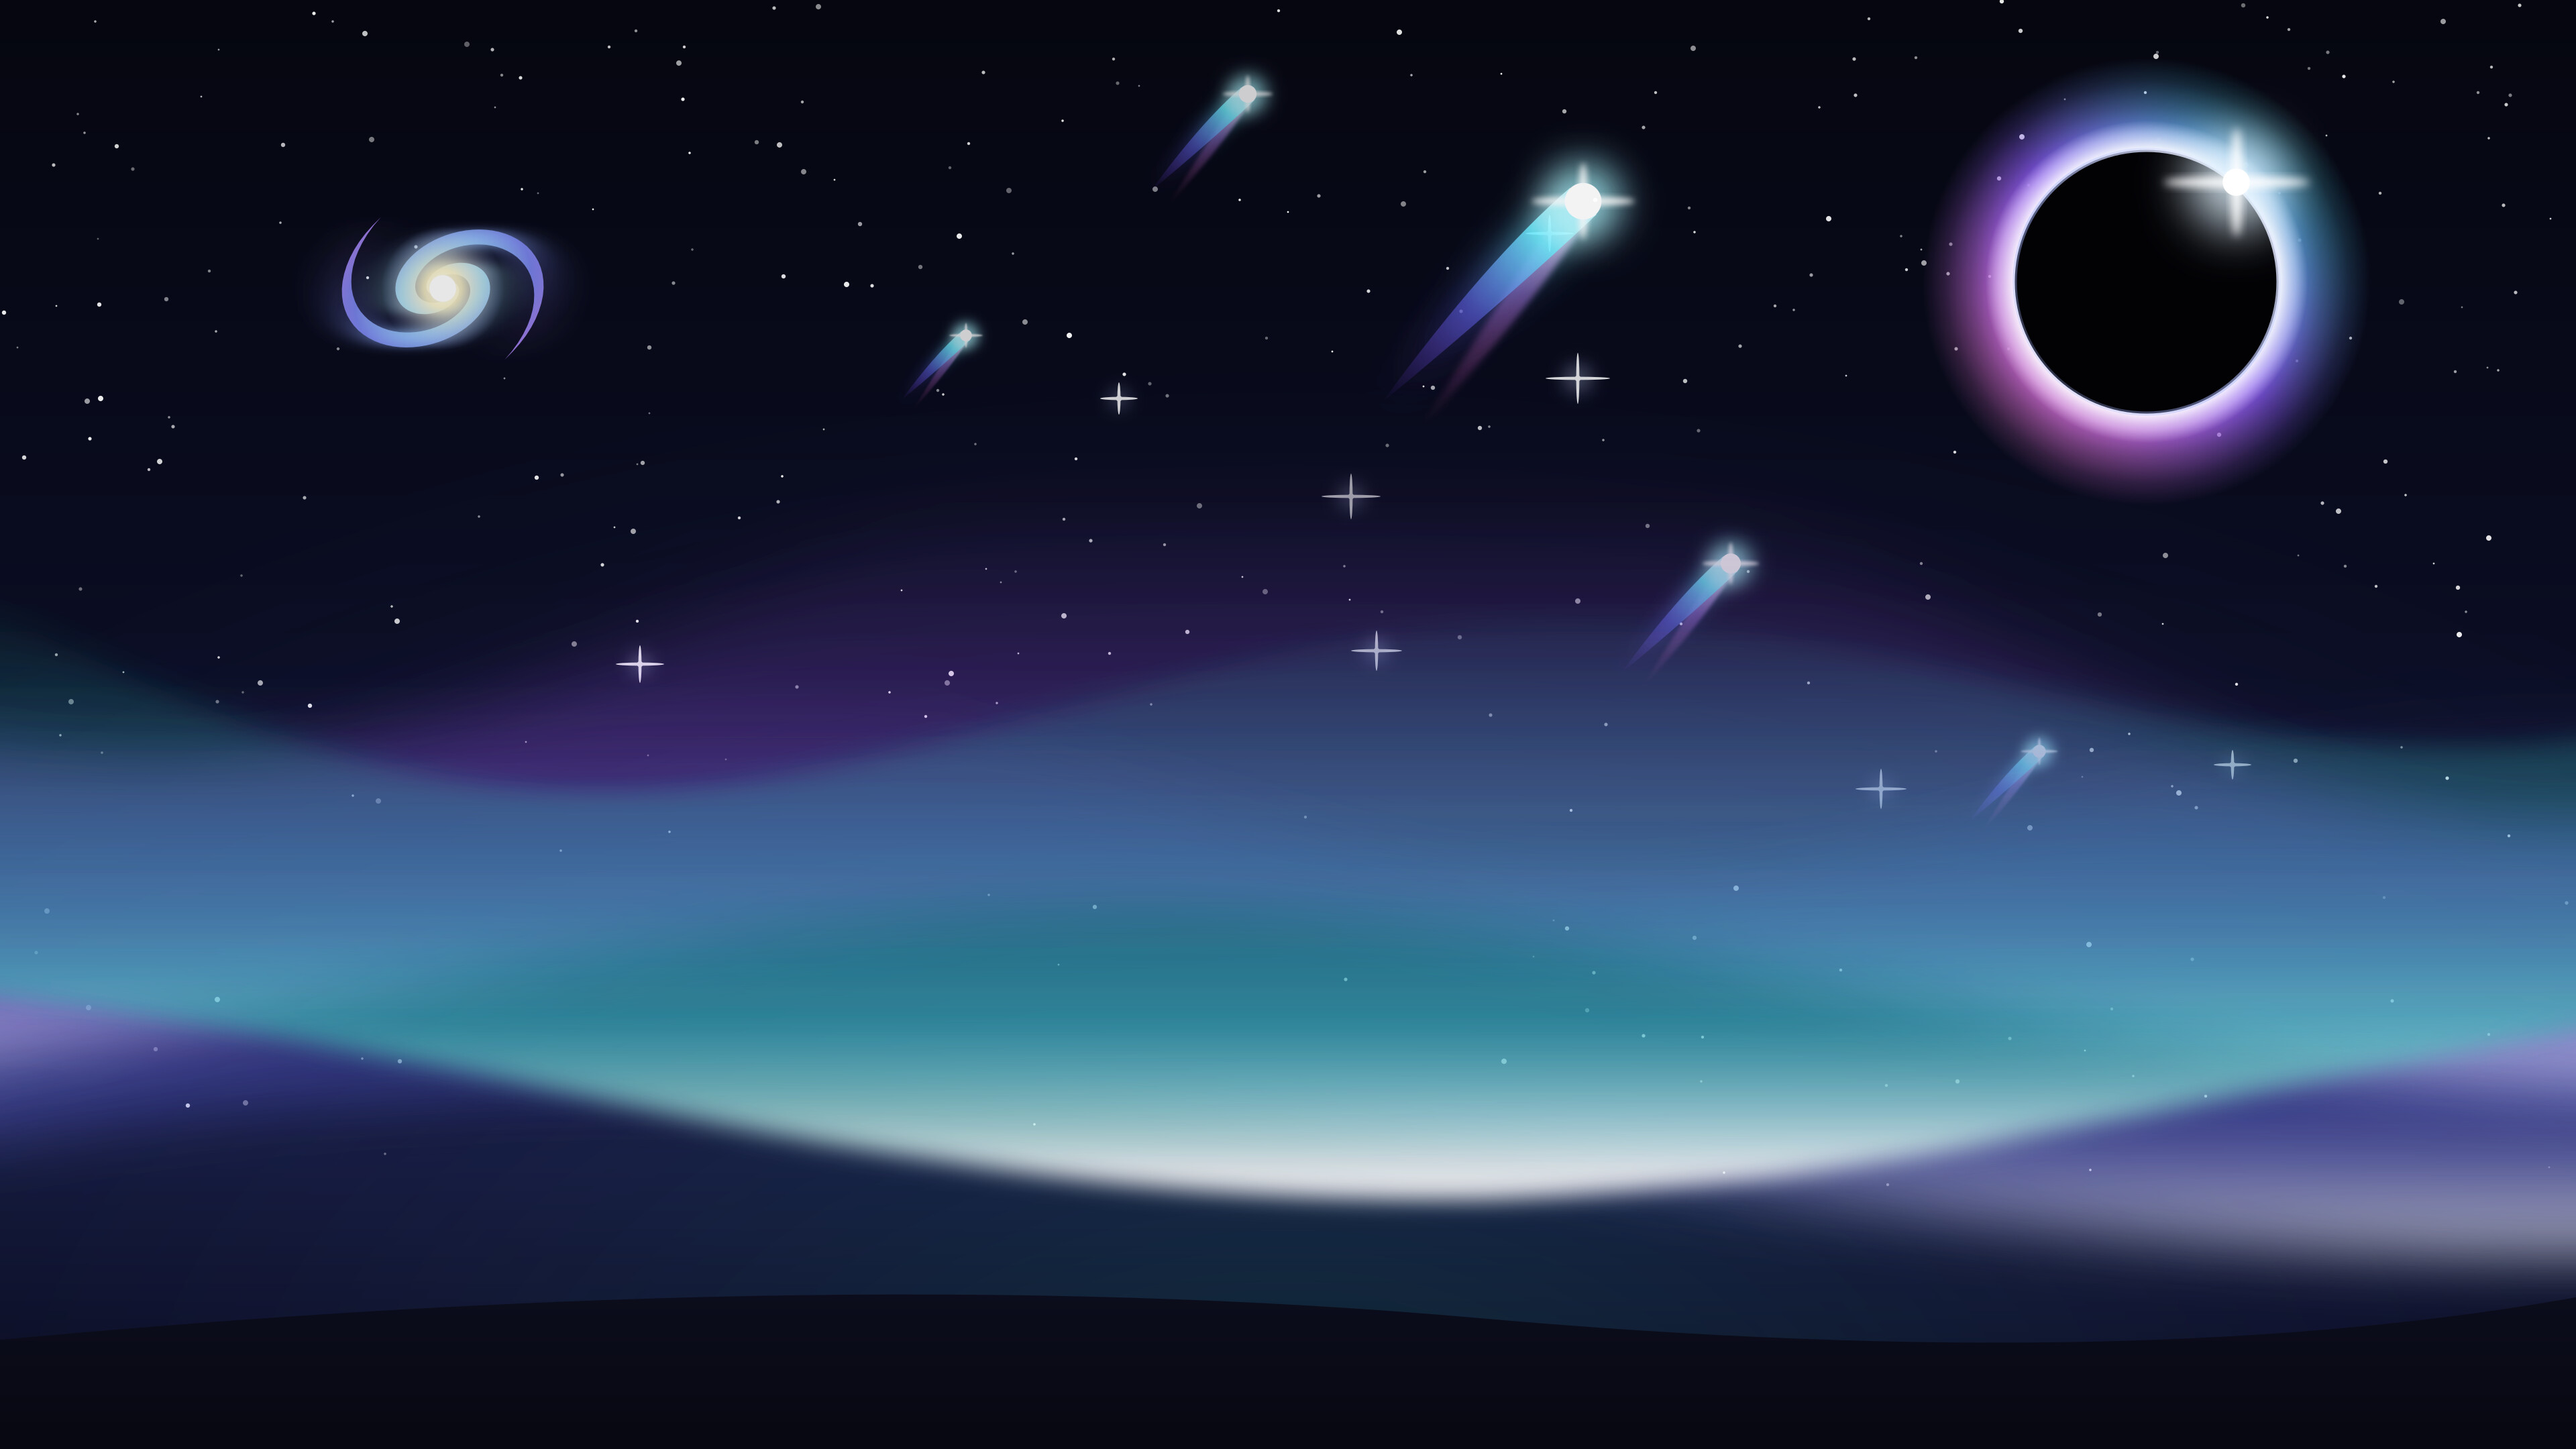
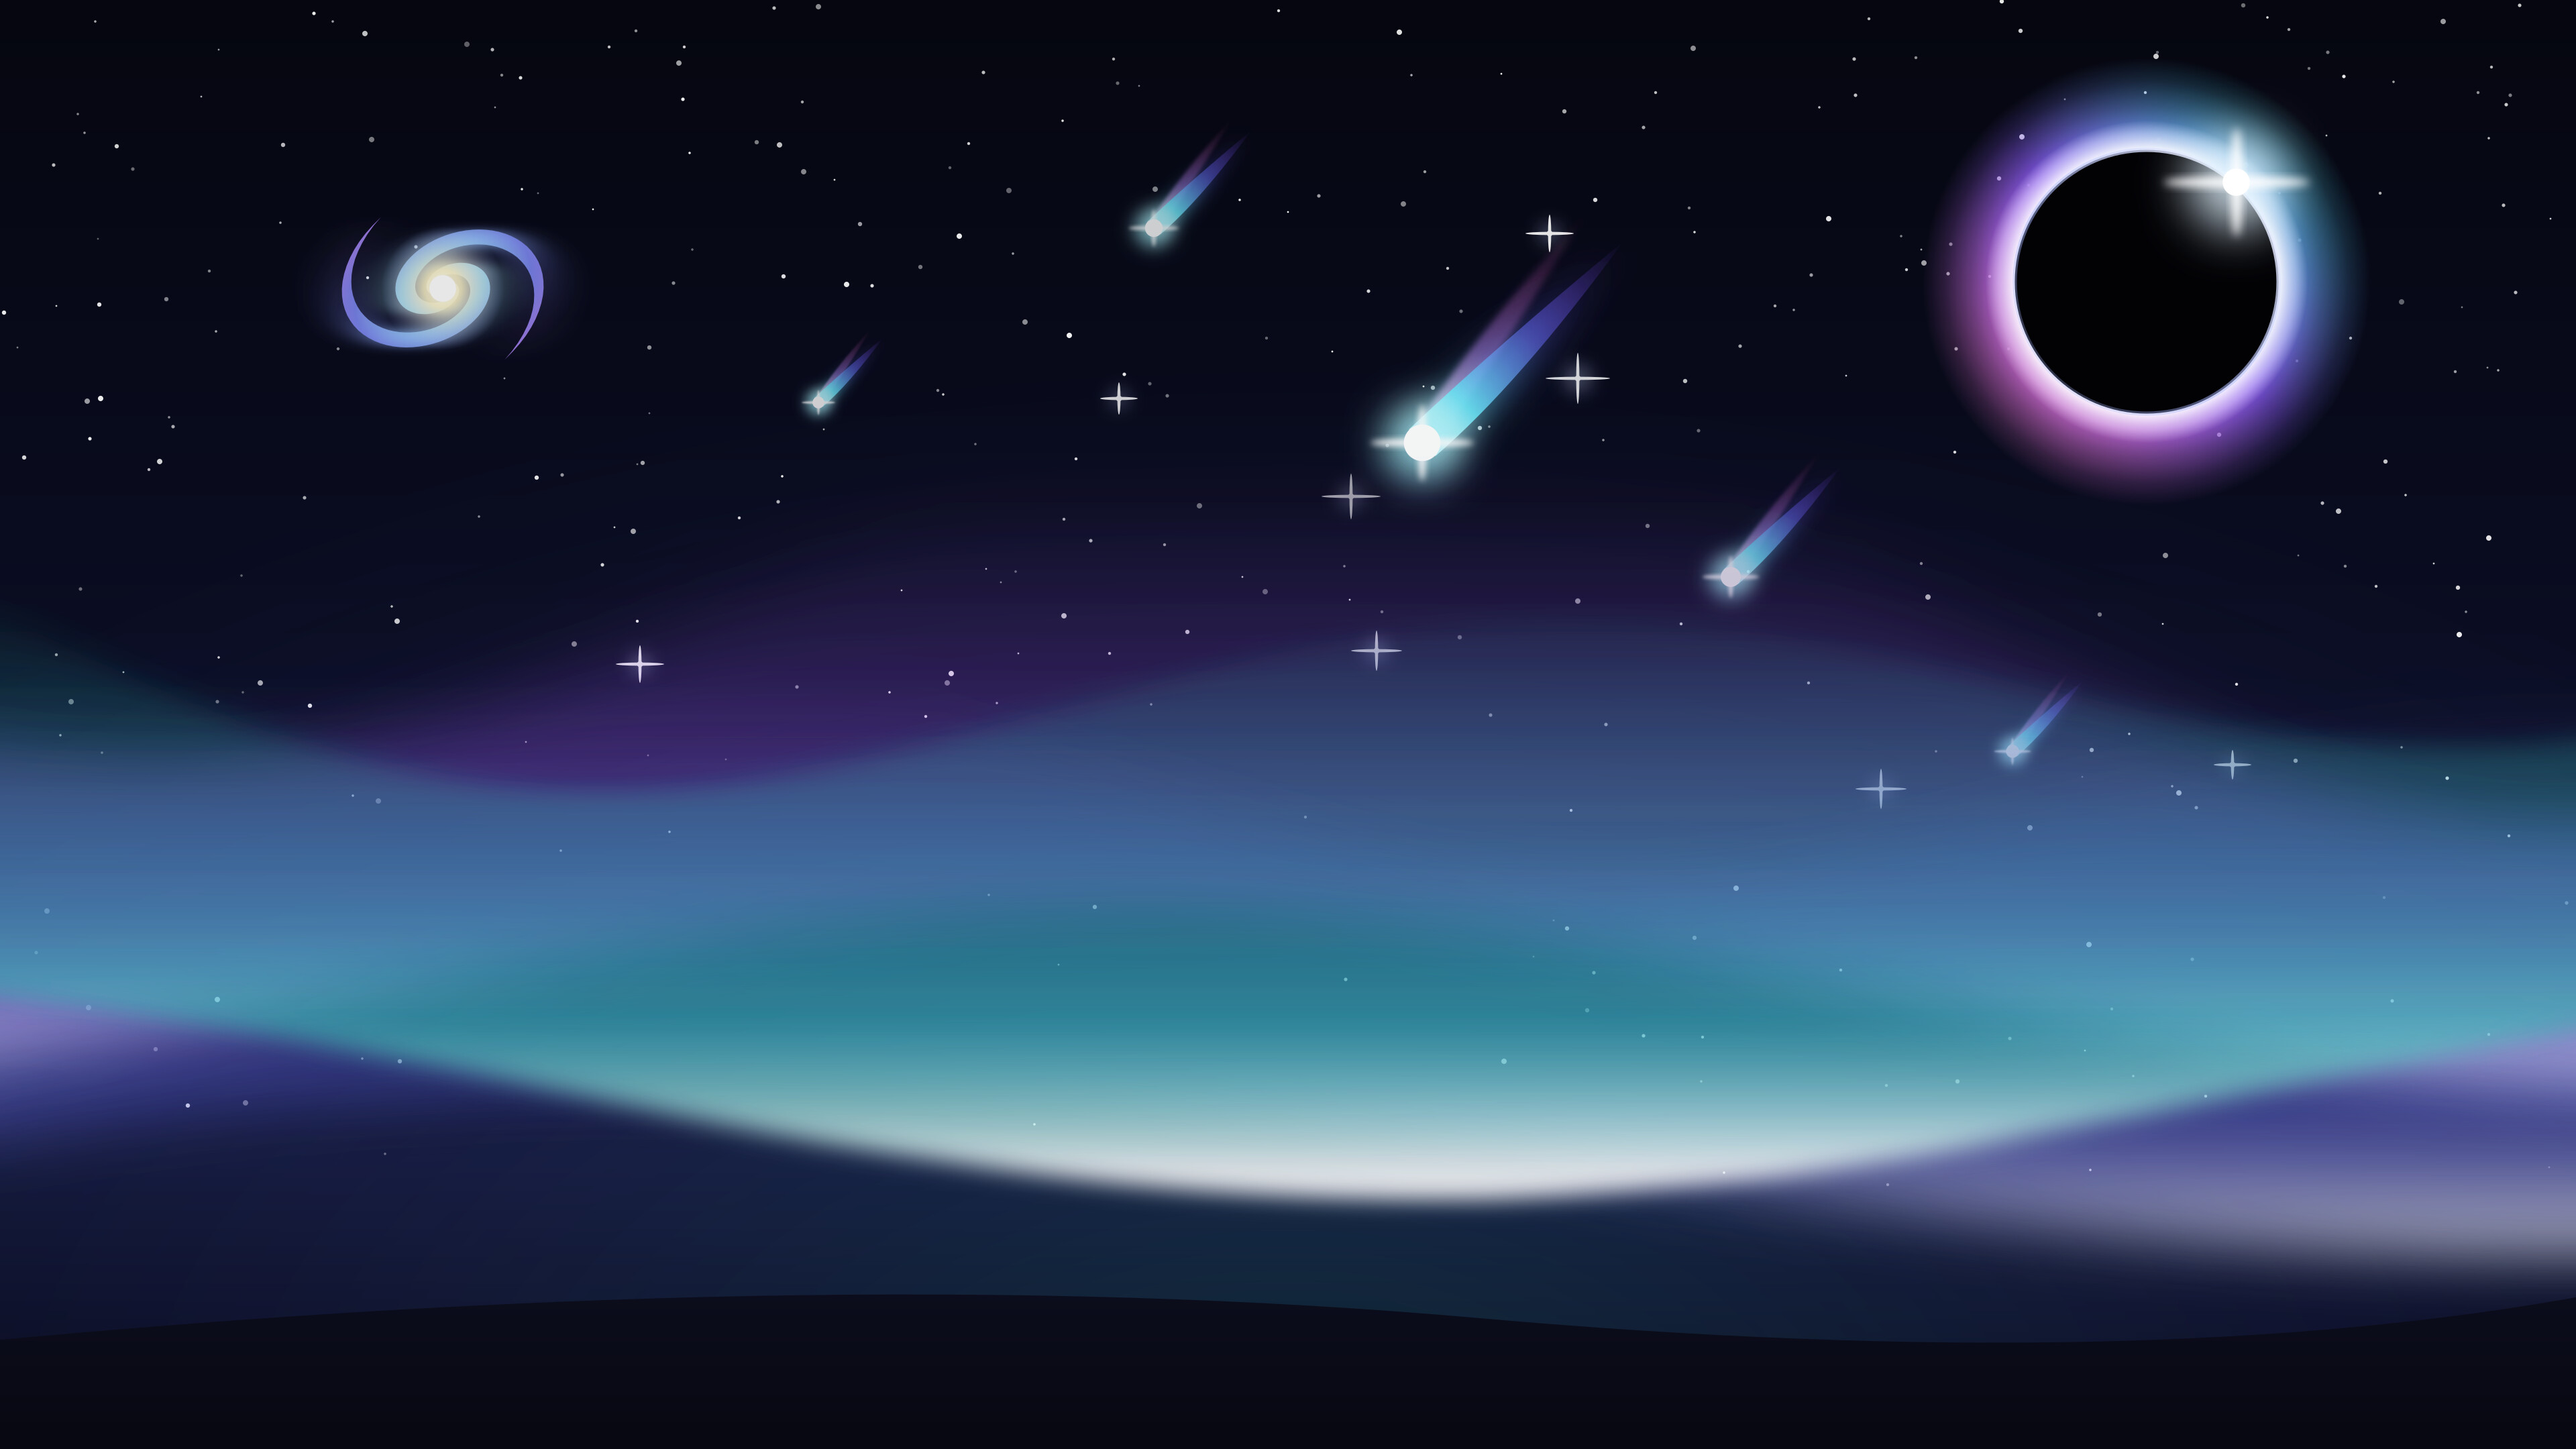
Comets that fall, and a calm sky as a second Astrelle wallpaper
The comets in Astrelle's wallpaper climbed, as the icon's does; now each is turned round,
falling down to the left head first, tail behind. Its calm sky, the same without the comets and
the galaxy (wallpaper.py --without=comets,galaxy), is a second built-in choice in Astrelle
Settings ("astrelle-calm"), named in all 11 languages.

diff --git a/tests/wallpaper-astrelle-default.test.js b/tests/wallpaper-astrelle-default.test.js
@@ -1,7 +1,7 @@
 // timeout: 60
 // Frosted Glass on a wallpaper: by default it's Astrelle's own (its icons as one night sky), on the
 // window and on the home page alike; Astrelle Settings lists it first, chosen, with its picture,
-// then the theme's, which still works when chosen. The home page's text is light on its dark sky.
+// then its calm sky and the theme's, which work when chosen. The home page's text is light on its dark sky.
 const wait = ms => new Promise(r => setTimeout(r, ms));
 Services.prefs.setBoolPref("aether.liquidGlass", true);
 Services.prefs.clearUserPref("aether.wallpaper");
@@ -27,14 +27,19 @@ const sdoc = settings.linkedBrowser.contentDocument;
 const tiles = [...sdoc.querySelectorAll("#wallpapers [data-url]")];
 const img = tiles[0]?.querySelector("img");
 for (let i = 0; i < 40 && !(img?.complete && img.naturalWidth); i++) await wait(250);
-out.tiles = tiles.slice(0, 2).map(t => `${t.dataset.url || "(default)"}:${t.querySelector("span")?.textContent}:${t.getAttribute("aria-pressed")}`);
+out.tiles = tiles.slice(0, 3).map(t => `${t.dataset.url || "(default)"}:${t.querySelector("span")?.textContent}:${t.getAttribute("aria-pressed")}`);
 out.thumbnailSmall = img?.naturalWidth > 0 && img.naturalWidth < 1000;
 tiles[1].click();
+await wait(800);
+out.calmChosen = [Services.prefs.getStringPref("aether.wallpaper", ""), root.style.getPropertyValue("--aether-wallpaper").split("/").pop(),
+  page().style.getPropertyValue("--aether-wallpaper").split("/").pop()];
+tiles[2].click();
 await wait(800);
 out.themeChosen = [Services.prefs.getStringPref("aether.wallpaper", ""), root.getAttribute("aether-wallpaper"), page().getAttribute("aether-wallpaper")];
 Services.prefs.clearUserPref("aether.wallpaper");
 Services.prefs.clearUserPref("aether.liquidGlass");
 const ok = out.window.join() === "picture,astrelle.jpg\")" && out.home.join() === "picture,astrelle.jpg\")" && out.frosted && out.tone.join() === "dark,light text"
-  && out.tiles.join() === "(default):Astrelle:true,theme:Your theme:false" && out.thumbnailSmall
+  && out.tiles.join() === "(default):Astrelle:true,astrelle-calm:Calm sky:false,theme:Your theme:false"
+  && out.calmChosen.join() === 'astrelle-calm,astrelle-calm.jpg"),astrelle-calm.jpg")' && out.thumbnailSmall
   && out.themeChosen.join() === "theme,theme,theme";
 return { ok, ...out };

diff --git a/branding-src/wallpaper.py b/branding-src/wallpaper.py
@@ -7,7 +7,8 @@ The icons' drawings are taken from their files (ui/icons/), so the wallpaper alw
         -quality 90 ui/wallpapers/astrelle.jpg
 
 (Rendered at twice its size, 4K, less PAD on each side.) Astrelle shows it as its default
-wallpaper (scripts/wallpaper.mjs).
+wallpaper (scripts/wallpaper.mjs). Its calm sky, wallpapers/astrelle-calm.jpg, is the same drawn
+with --without=comets,galaxy.
 """
 import math
 import random
@@ -63,7 +64,7 @@ def stars(rng, n):
     return "\n".join(out)
 
 
-def main(icons, out):
+def main(icons, out, without=()):
     rng = random.Random(7)
     a_defs, aurora = part(icons, "aurora", "a-")
     e_defs, eclipse = part(icons, "eclipse", "e-")
@@ -72,11 +73,13 @@ def main(icons, out):
     # The aurora's hills, the ground the sky sits over, are drawn once, below its curtains.
     ground = next(l for l in aurora.splitlines() if "url(#a-ground)" in l)
     curtains = aurora.replace(ground, "")
-    comets = [  # (x, y of the head, size): falling the same way, as a shower does
-        (1180, 150, .62), (1290, 420, .34), (930, 70, .30), (1520, 560, .22), (720, 250, .2),
+    # (x, y of the head, size): falling the same way, as a shower does, down to the left. The
+    # icon's comet climbs (head up and right), so each is turned round: head first, tail behind.
+    comets = [
+        (1060, 330, .62), (1290, 430, .34), (860, 170, .30), (1500, 560, .22), (610, 300, .2),
     ]
     shower = "\n".join(
-        f'<g transform="translate({x} {y}) scale({s}) translate(-346 -166)" opacity="{.95 if s > .5 else .8}">{comet}</g>'
+        f'<g transform="translate({x} {y}) scale({s}) rotate(180) translate(-346 -166)" opacity="{.95 if s > .5 else .8}">{comet}</g>'
         for x, y, s in comets)
     svg = f'''<svg xmlns="http://www.w3.org/2000/svg" viewBox="{-PAD} 0 {W + 2 * PAD} {H}" width="{W + 2 * PAD}" height="{H}">
   <!-- Astrelle's wallpaper: its four icons as one night sky. Drawn by wallpaper.py from ui/icons/. -->
@@ -102,11 +105,11 @@ def main(icons, out):
   <rect width="{W}" height="{H}" fill="url(#w-haze)"/>
   {stars(rng, 520)}
   <!-- The galaxy, far off. -->
-  <g transform="translate(330 215) scale(.62) translate(-256 -256)" opacity=".9">{galaxy}</g>
+  {"" if "galaxy" in without else f'<g transform="translate(330 215) scale(.62) translate(-256 -256)" opacity=".9">{galaxy}</g>'}
   <!-- The eclipse, the sun or moon. -->
   <g transform="translate(1600 210) scale(.78) translate(-256 -256)">{eclipse}</g>
   <!-- The comets, a shower. -->
-  {shower}
+  {"" if "comets" in without else shower}
   <!-- The aurora: its curtains, stretched into waves across the sky, over its hills. -->
   <g transform="translate(-560 300) scale(5.8 2.05) translate(-20 -50)" opacity=".9">{curtains}</g>
   <g transform="translate(-60 120) scale(4.15 2.2) translate(-20 0)">{ground}</g>
@@ -116,4 +119,6 @@ def main(icons, out):
 
 
 if __name__ == "__main__":
-    main(sys.argv[1], sys.argv[2])
+    # e.g. --without=comets,galaxy for a quieter sky
+    without = next((a.split("=", 1)[1].split(",") for a in sys.argv[3:] if a.startswith("--without=")), ())
+    main(sys.argv[1], sys.argv[2], without)
